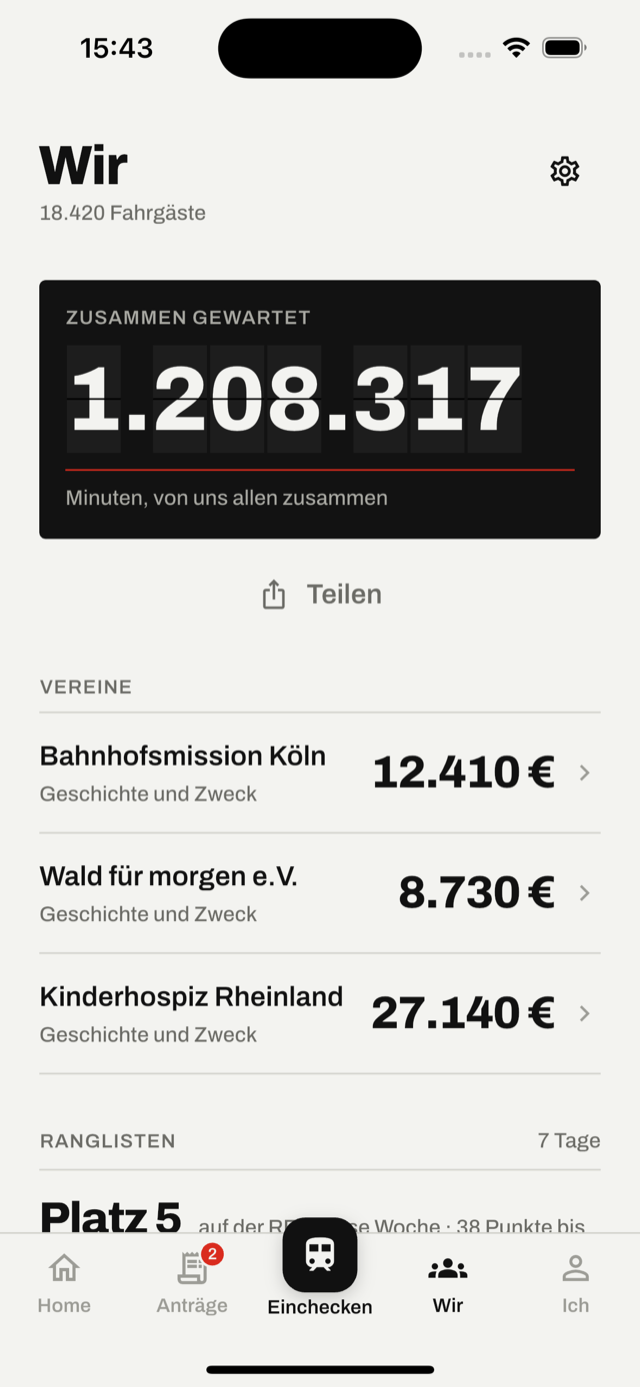
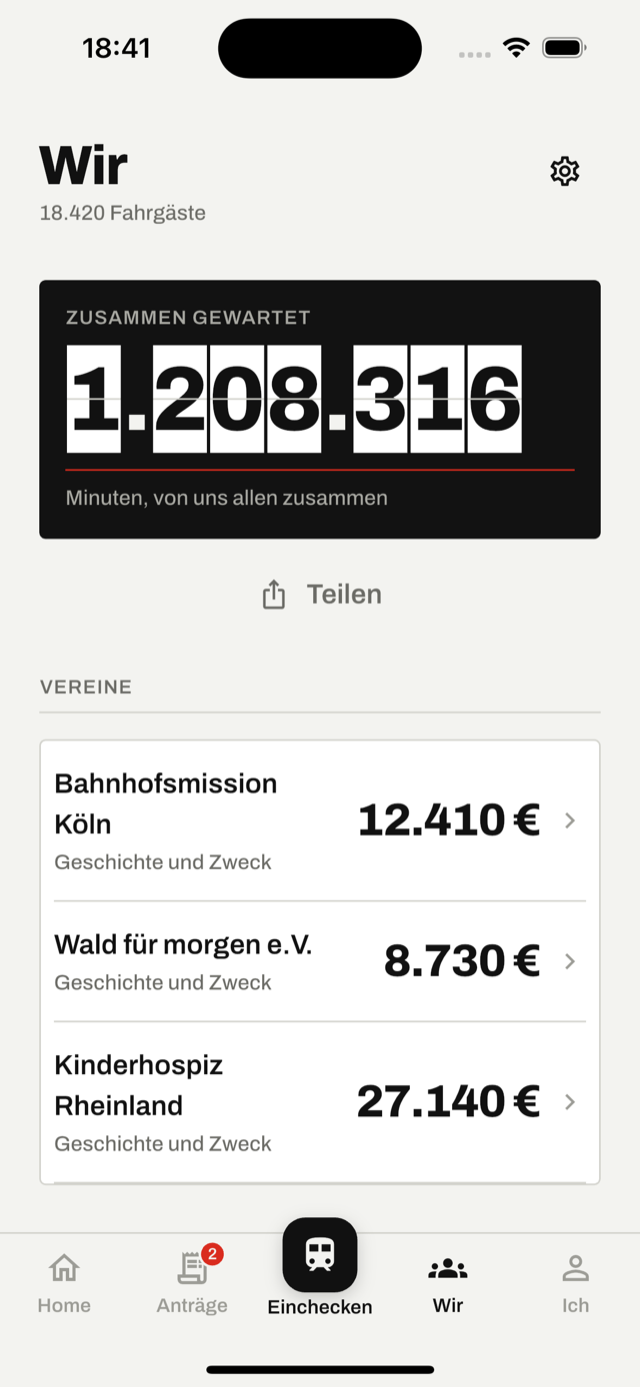
Alles auf Karten, weiße Klappen, ein Sheet an einer Stelle (#10, #12, #13)
**#10** Die Klappen sind in beiden Lichtern Papier: weiße Karten auf dem
schwarzen Brett, papierfarbene auf dem erhobenen Papier, die Ziffern immer Ink.
Dabei eine Falle: die Gruppentrenner hängen zwischen den Klappen, also auf dem
Brett selbst — mit Ink waren sie schwarz auf schwarz und 1.208.316 las sich als
1 208 316. Sie nehmen jetzt die Farbe des Bretts.

**#12** Die zwei Eingänge öffneten dasselbe Sheet auf verschiedenen Navigatoren:
Der Home-Knopf liegt innerhalb des Shell-Navigators, das Quadrat in der Leiste
darüber — deshalb deckte dessen Sheet die Leiste zu. Der Shell merkt sich jetzt
den Kontext seines Bodys, das Quadrat öffnet damit. Leiste sichtbar, in beiden
Fällen.

**#13** Auf Wir und Ich steht jeder Block auf einer Karte, die Überschrift davor
bleibt draußen: Vereine, Ranglisten, Abzeichen, Meine Statistik, Mehr. Zwei Maße
mussten nach: eine Liste auf einer Karte bekommt 8 px seitlich statt 16 (sonst
bricht „Bahnhofsmission Köln" neben seiner Zahl um), und das Abzeichen-Raster ist
auf die schmalere Zelle nachgerechnet — eine Kachel aus 64 px Grafik plus zwei
Zeilen hat eine feste Höhe und lief um 5,3 px über.

Die Tour hat an diesem Nachmittag mehrfach danebengegriffen, weil die Platte voll
und der Simulator entsprechend langsam war: das Fenster nach jedem Marker ist von
1,5 auf 3 Sekunden verbreitert.

docs/37, STYLE.md, Website-Bilder neu.

Claude-Session: https://claude.ai/code/session_01RYsrNSWoztH2z7RxAnxai6

diff --git a/app/lib/screens/community/ich_screen.dart b/app/lib/screens/community/ich_screen.dart
@@ -142,43 +142,66 @@ class IchScreen extends StatelessWidget {
                 ),
               ),
               const VGap.xl(),
+              // Every block on this screen stands on a card (issue #13, docs/37): the section
+              // label outside it, the content on it.
               VSection('Abzeichen', trailing: Text('$earned von ${data.badges.length}', style: VText.caption)),
-              const VGap.s(),
-              GridView.count(
-                crossAxisCount: 3,
-                shrinkWrap: true,
-                physics: const NeverScrollableScrollPhysics(),
-                mainAxisSpacing: 6,
-                crossAxisSpacing: 6,
-                childAspectRatio: 0.84, // 64 px artwork + two caption lines
-                children: [
-                  for (final b in data.badges) BadgeTile(badge: b, onTap: () => _showBadge(context, b)),
-                ],
+              const VGap.m(),
+              VTafel(
+                // A tile is 64 px of artwork plus two caption lines: a fixed height, so the ratio
+                // has to follow the width the card's padding leaves (issue #13).
+                padding: const EdgeInsets.symmetric(horizontal: VSpace.xs, vertical: VSpace.s),
+                child: GridView.count(
+                  crossAxisCount: 3,
+                  shrinkWrap: true,
+                  physics: const NeverScrollableScrollPhysics(),
+                  mainAxisSpacing: 6,
+                  crossAxisSpacing: 6,
+                  childAspectRatio: 0.80,
+                  children: [
+                    for (final b in data.badges) BadgeTile(badge: b, onTap: () => _showBadge(context, b)),
+                  ],
+                ),
               ),
               const VGap.xl(),
               const VSection('Meine Statistik'),
-              VKeyValue('Durchschnittliche Verspätung', '$avg Minuten', strong: true),
-              const VRule.soft(),
-              VKeyValue('Geduldigste Linie', patientLine, strong: true),
-              const VRule.soft(),
-              VKeyValue('Längste Wartezeit', '$longest Minuten', strong: true),
-              const VRule.soft(),
-              VKeyValue('Minuten dieses Jahr', fmtInt(minutesThisYear), strong: true),
-              const VRule.soft(),
-              VKeyValue('Fahrten dieses Jahr', fmtInt(thisYear.length), strong: true),
+              const VGap.m(),
+              VTafel(
+                padding: const EdgeInsets.symmetric(horizontal: VSpace.s, vertical: VSpace.s),
+                child: Column(
+                  children: [
+                    VKeyValue('Durchschnittliche Verspätung', '$avg Minuten', strong: true),
+                    const VRule.soft(),
+                    VKeyValue('Geduldigste Linie', patientLine, strong: true),
+                    const VRule.soft(),
+                    VKeyValue('Längste Wartezeit', '$longest Minuten', strong: true),
+                    const VRule.soft(),
+                    VKeyValue('Minuten dieses Jahr', fmtInt(minutesThisYear), strong: true),
+                    const VRule.soft(),
+                    VKeyValue('Fahrten dieses Jahr', fmtInt(thisYear.length), strong: true),
+                  ],
+                ),
+              ),
               const VGap.xl(),
               const VSection('Mehr'),
-              VListRow(
-                title: 'Dein Zweck',
-                subtitle: ngoName ?? 'Noch nicht gewählt',
-                chevron: true,
-                // The row is about which Zweck is yours, so it opens the choice — the same
-                // sheet Einstellungen opens. The Zweck's own page is where "Trotzdem spenden"
-                // belongs, and that is reached from a claim, not from here.
-                onTap: () => pickNgo(context, session, ngoId.isEmpty ? null : ngoId),
+              const VGap.m(),
+              VTafel(
+                padding: const EdgeInsets.symmetric(horizontal: VSpace.s),
+                child: Column(
+                  children: [
+                    VListRow(
+                      title: 'Dein Zweck',
+                      subtitle: ngoName ?? 'Noch nicht gewählt',
+                      chevron: true,
+                      // The row is about which Zweck is yours, so it opens the choice — the same
+                      // sheet Einstellungen opens. The Zweck's own page is where "Trotzdem spenden"
+                      // belongs, and that is reached from a claim, not from here.
+                      onTap: () => pickNgo(context, session, ngoId.isEmpty ? null : ngoId),
+                    ),
+                    const VRule.soft(),
+                    VListRow(title: 'Alle Fahrten', subtitle: '${rides.length} zuletzt', chevron: true, onTap: () => context.push(Routes.historie)),
+                  ],
+                ),
               ),
-              const VRule.soft(),
-              VListRow(title: 'Alle Fahrten', subtitle: '${rides.length} zuletzt', chevron: true, onTap: () => context.push(Routes.historie)),
             ],
           ),
         );

diff --git a/app/lib/screens/community/wir_screen.dart b/app/lib/screens/community/wir_screen.dart
@@ -148,32 +148,49 @@ class _WirScreenState extends State<WirScreen> {
               ),
               const VGap.l(),
 
+              // Every block on this screen stands on a card (issue #13, docs/37): the section
+              // label outside it, the content on it. Nothing sits loose on the paper any more.
               const VSection('Vereine'),
-              for (final n in c.ngos) _ngoRow(context, n),
+              const VGap.m(),
+              VTafel(
+                // A list on a card keeps a narrow gutter: with the full 16 px, „Bahnhofsmission
+                // Köln" broke into two lines next to its figure (issue #13).
+                padding: const EdgeInsets.symmetric(horizontal: VSpace.s),
+                child: Column(
+                  children: [for (final n in c.ngos) _ngoRow(context, n)],
+                ),
+              ),
               const VGap.xl(),
               VSection('Ranglisten', trailing: Text('7 Tage', style: VText.caption)),
               const VGap.m(),
-              if (st.board != null) ...[
-                _RankLine(board: st.board!),
-                const VGap.m(),
-              ],
-              SegmentTabs(labels: const ['Meine Linie', 'Meine Stadt', 'Deutschland'], index: _board, onChanged: (i) => setState(() => _board = i)),
-              const VGap.s(),
-              Text(
-                switch (_board) { 0 => 'Deine häufigste Linie', 1 => session.me?.homeStation.isNotEmpty == true ? session.me!.homeStation : 'Deine Stadt', _ => 'Alle Fahrgäste' },
-                style: VText.caption,
-              ),
-              const VGap.s(),
-              IndexedStack(
-                index: _board,
-                alignment: Alignment.topLeft,
-                sizing: StackFit.loose,
-                children: [for (final scope in _boardScopes) _Board(board: data.boards[scope])],
-              ),
-              const VGap.s(),
-              Text(
-                (session.me?.settings.showOnBoards ?? true) ? 'Nur verifizierte Fahrten zählen.' : 'Nur verifizierte Fahrten zählen. Du bist in den Ranglisten verborgen.',
-                style: VText.caption,
+              VTafel(
+                child: Column(
+                  crossAxisAlignment: CrossAxisAlignment.start,
+                  children: [
+                    if (st.board != null) ...[
+                      _RankLine(board: st.board!),
+                      const VGap.m(),
+                    ],
+                    SegmentTabs(labels: const ['Meine Linie', 'Meine Stadt', 'Deutschland'], index: _board, onChanged: (i) => setState(() => _board = i)),
+                    const VGap.s(),
+                    Text(
+                      switch (_board) { 0 => 'Deine häufigste Linie', 1 => session.me?.homeStation.isNotEmpty == true ? session.me!.homeStation : 'Deine Stadt', _ => 'Alle Fahrgäste' },
+                      style: VText.caption,
+                    ),
+                    const VGap.s(),
+                    IndexedStack(
+                      index: _board,
+                      alignment: Alignment.topLeft,
+                      sizing: StackFit.loose,
+                      children: [for (final scope in _boardScopes) _Board(board: data.boards[scope])],
+                    ),
+                    const VGap.s(),
+                    Text(
+                      (session.me?.settings.showOnBoards ?? true) ? 'Nur verifizierte Fahrten zählen.' : 'Nur verifizierte Fahrten zählen. Du bist in den Ranglisten verborgen.',
+                      style: VText.caption,
+                    ),
+                  ],
+                ),
               ),
             ],
           ),

diff --git a/app/lib/widgets/kit.dart b/app/lib/widgets/kit.dart
@@ -405,10 +405,11 @@ class _VTafelZahlState extends State<VTafelZahl> with SingleTickerProviderStateM
   @override
   Widget build(BuildContext context) {
     final anzeige = widget.look == VTafelLook.anzeige;
-    final style = (widget.style ?? VText.number).copyWith(
-      fontFeatures: const [FontFeature.tabularFigures()],
-      color: anzeige ? VColors.paper : null,
-    );
+    // Ink on a white flap, whichever board it hangs in (issue #10) — but the group separators
+    // hang between the flaps, on the board itself, so they take the board's colour or they are
+    // black on black.
+    final style = (widget.style ?? VText.number).copyWith(fontFeatures: const [FontFeature.tabularFigures()]);
+    final bareStyle = anzeige ? style.copyWith(color: VColors.paper) : style;
     // Measured, not guessed: a flap has to be exactly as wide and as tall as the digit it turns
     // over, or the row shifts sideways while it runs. Tabular figures make one measurement do
     // for all ten.
@@ -431,7 +432,7 @@ class _VTafelZahlState extends State<VTafelZahl> with SingleTickerProviderStateM
                 child: SizedBox(height: cell, child: Center(child: Text(c, style: style))),
               )
             else
-              Padding(padding: const EdgeInsets.symmetric(horizontal: 1), child: Text(c, style: style)),
+              Padding(padding: const EdgeInsets.symmetric(horizontal: 1), child: Text(c, style: bareStyle)),
         ],
       );
     }
@@ -458,7 +459,7 @@ class _VTafelZahlState extends State<VTafelZahl> with SingleTickerProviderStateM
                 child: SizedBox(height: cell, child: Center(child: Text(to[i], style: style))),
               )
             else
-              Padding(padding: EdgeInsets.symmetric(horizontal: widget.flaps ? 1 : 0), child: Text(to[i], style: style))
+              Padding(padding: EdgeInsets.symmetric(horizontal: widget.flaps ? 1 : 0), child: Text(to[i], style: bareStyle))
           else
             _Flap(
               controller: _c,
@@ -1375,11 +1376,8 @@ class _Card extends StatelessWidget {
   final VTafelLook look;
   final Widget child;
 
-  /// The same board in two lights (issue #10): black flaps with a black seam, or paper flaps
-  /// with a grey one. The silhouette is what makes it a Fallblattanzeige, not the colour.
-  static const _darkFlap = Color(0xFF1D1D1D);
-  static const _darkSeam = Color(0xFF000000);
-
+  /// The flaps are paper in both lights (issue #10): white cards on the black board, and paper
+  /// cards on the elevated paper. What changes is what surrounds them, and the seam.
   @override
   Widget build(BuildContext context) {
     final anzeige = look == VTafelLook.anzeige;
@@ -1387,17 +1385,12 @@ class _Card extends StatelessWidget {
       margin: const EdgeInsets.symmetric(horizontal: 1),
       height: height,
       width: width,
-      color: anzeige ? _darkFlap : VColors.paper,
+      color: anzeige ? VColors.paperElevated : VColors.paper,
       child: Stack(
         alignment: Alignment.center,
         children: [
           child,
-          Positioned(
-            top: height / 2 - 0.5,
-            left: 0,
-            right: 0,
-            child: Container(height: 1, color: anzeige ? _darkSeam : VColors.rule),
-          ),
+          Positioned(top: height / 2 - 0.5, left: 0, right: 0, child: Container(height: 1, color: VColors.rule)),
         ],
       ),
     );

diff --git a/app/lib/router.dart b/app/lib/router.dart
@@ -103,6 +103,10 @@ class _TabShellState extends State<_TabShell> {
   NearbyMonitor? _nearby;
   String? _consumedLocation;
 
+  /// See the `Builder` in [build]: the tab's own context, so the Einchecken square opens its
+  /// sheet exactly where Home's button opens it (issue #12).
+  BuildContext? _bodyContext;
+
   @override
   void initState() {
     super.initState();
@@ -201,7 +205,14 @@ class _TabShellState extends State<_TabShell> {
             return Stack(
               children: [
                 Scaffold(
-                  body: widget.child,
+                  // A context from inside the shell's own Navigator (issue #12). The square in
+                  // the bar sits above that Navigator, so a sheet opened with the bar's context
+                  // goes on the root one and covers the bar; Home's button opens the same sheet
+                  // from inside the tab, where the bar stays visible. One context, one result.
+                  body: Builder(builder: (bodyContext) {
+                    _bodyContext = bodyContext;
+                    return widget.child;
+                  }),
                   bottomNavigationBar: Column(
                     mainAxisSize: MainAxisSize.min,
                     children: [
@@ -210,7 +221,7 @@ class _TabShellState extends State<_TabShell> {
                         index: index.clamp(0, 3),
                         onTap: (i) => context.go(_TabShell._tabs[i]),
                         // Under way, the square points at the journey you are on (docs/20 §1).
-                        onCheckin: () => monitor.active ? monitor.openSheet() : startCheckin(context),
+                        onCheckin: () => monitor.active ? monitor.openSheet() : startCheckin(_bodyContext ?? context),
                         checkinEnabled: !monitor.active,
                         badges: {1: session.unreadMails},
                       ),

diff --git a/app/integration_test/screenshot_tour_test.dart b/app/integration_test/screenshot_tour_test.dart
@@ -81,7 +81,11 @@ void main() {
       await wait(tester, 1800);
       // ignore: avoid_print
       print('SHOT $name');
-      await wait(tester, 1500);
+      // The screenshot is taken by tour.sh half a second after this line, and `simctl io
+      // screenshot` is not instant: under load the captures fall behind the markers and a shot
+      // lands on the next screen. Three seconds of standing still is cheap insurance — the whole
+      // tour is five minutes either way.
+      await wait(tester, 3000);
     }
     /// Closes the topmost bottom sheet the way a thumb does, above its top edge.
     Future<void> dismissSheet(WidgetTester tester) async {

diff --git a/docs/37-alles-auf-karten.md b/docs/37-alles-auf-karten.md
@@ -1,0 +1,56 @@
+# 37 — Alles auf Karten, weiße Klappen, ein Sheet an einer Stelle
+
+Decided 12 September 2026 (Johannes, aus den Issues 10, 12 und 13).
+
+## 1. Weiße Klappen (Issue 10)
+
+Die Klappen sind jetzt in beiden Lichtern Papier: **weiße Karten auf dem schwarzen Brett**,
+papierfarbene auf dem erhobenen Papier. Die Ziffern sind immer Ink. Was sich unterscheidet, ist
+das, was drumherum liegt.
+
+Eine Falle dabei: die Gruppentrenner hängen **zwischen** den Klappen, also auf dem Brett selbst.
+Mit der Umstellung auf Ink waren sie schwarz auf schwarz und `1.208.316` las sich als
+`1 208 316`. Sie nehmen jetzt die Farbe des Bretts.
+
+## 2. Ein Sheet, an derselben Stelle (Issue 12)
+
+Der Check-in hat zwei Eingänge und die öffneten dasselbe Sheet auf verschiedenen Navigatoren:
+
+- **Home-Knopf** — sein Kontext liegt *innerhalb* des Shell-Navigators, das Sheet erscheint im
+  Body des Scaffolds, die untere Leiste bleibt sichtbar.
+- **Quadrat in der Leiste** — sein Kontext liegt *über* diesem Navigator, also landete das Sheet
+  auf dem Root-Navigator und deckte die Leiste zu.
+
+Jetzt hält der Shell einen `Builder` um `widget.child` und merkt sich dessen Kontext; das Quadrat
+öffnet damit. Ein Kontext, ein Ergebnis: Leiste sichtbar, in beiden Fällen.
+
+(Die Sperre gegen zwei Sheets übereinander aus docs/36 §4 bleibt, wo sie ist — sie löst das
+andere Problem, nicht dieses.)
+
+## 3. Wir und Ich: nichts liegt mehr lose auf dem Papier (Issue 13)
+
+Bisher stand die Regel: Listen und Zeilen haben keine Fläche. Auf Wir und Ich heißt sie jetzt
+anders herum — **jeder Block steht auf einer Karte**, die Abschnittsüberschrift davor bleibt
+draußen:
+
+| Schirm | Karten |
+|---|---|
+| Wir | die Anzeige, die Vereine, die Ranglisten (Platzzeile, Reiter, Tabelle, Fußnote in einer) |
+| Ich | die Anzeige, die vier Kennzahlen, die Abzeichen, Meine Statistik, Mehr |
+
+Zwei Maße sind dabei aufgefallen und angepasst: Eine **Liste auf einer Karte** bekommt nur 8 px
+seitlich statt 16, sonst bricht „Bahnhofsmission Köln" neben seiner Zahl um. Und das
+**Abzeichen-Raster** ist auf die schmalere Zelle nachgerechnet (`childAspectRatio` 0,80 bei 4 px
+Rand), weil eine Kachel aus 64 px Grafik plus zwei Textzeilen eine feste Höhe hat — mit dem alten
+Verhältnis lief sie um 5,3 px über.
+
+`app/STYLE.md` trägt die Ausnahme: die Regel „Regeln statt Karten" gilt weiter für Bahnsteig,
+Anträge und die Unterseiten; auf den beiden Übersichtsschirmen gilt sie nicht mehr.
+
+## Anmerkung zur Werkstatt
+
+Die Tour ist an diesem Nachmittag mehrfach danebengegriffen — Aufnahmen landeten auf dem
+nächsten Schirm. Ursache war nicht die App: die Platte war voll, der Simulator entsprechend
+langsam, und `simctl io screenshot` hing den Markern hinterher. Das Fenster nach jedem Marker ist
+deshalb von 1,5 auf 3 Sekunden verbreitert. Die Swift-Tests aus docs/36 ließen sich aus demselben
+Grund weiterhin nicht ausführen (`xcodebuild` kann kein Testgerät klonen); sie kompilieren.

diff --git a/app/STYLE.md b/app/STYLE.md
@@ -21,7 +21,7 @@ The German station clock. Paper white, black grotesk, one red second hand. Preci
   `VTafelLook.anzeige` is the departure board — black, white flaps with the hinge seam across
   them, a red hairline under the row — and there is **at most one per screen**, for the figure
   the screen is about; `VTafelLook.papier` is the quiet one, elevated paper with a hairline and
-  a 4 px radius, for everything under the fold. Home, Wir and Ich use the same pair. Everything else — lists, rows, badges, settings, explanations — has no surface.
+  a 4 px radius, for everything under the fold. Home, Wir and Ich use the same pair. Everything else — lists, rows, badges, settings, explanations — has no surface, **except on Wir and Ich** (docs/37): those two are overview screens, and there every block stands on a Tafel with its section label outside it. A list on a card keeps an 8 px gutter, not 16.
   **A surface never contains another surface**, and nothing inside one gets its own border: the
   content lines up with the surface's own padding, so a screen has one left edge, not three.
 - A figure on a Tafel sets itself like a Fallblattanzeige (`VTafelZahl`): the digits that
